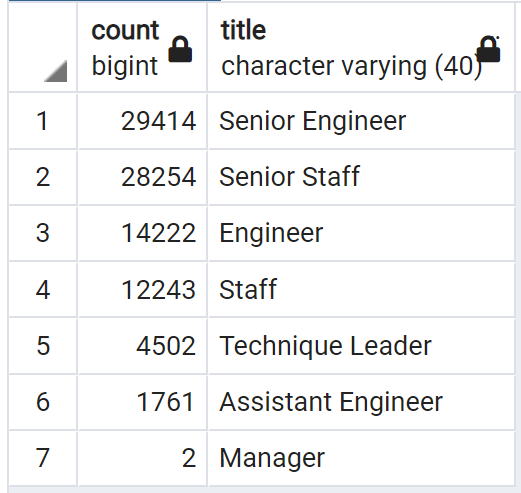
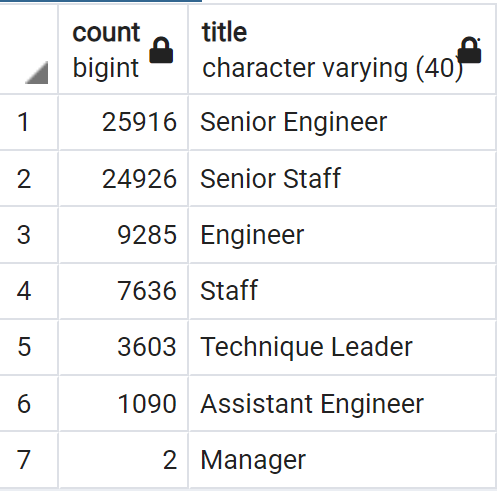
Challenge Updated

Changed region(s): [[0.0, 0.0, 1.0, 1.0], [0.9658, 0.2749, 0.996, 0.336], [0.0, 0.2749, 0.0302, 0.336]]

diff --git a/README.md b/README.md
@@ -8,7 +8,7 @@ Overall, the numbers show some glaring issues that will need to be addressed.  B
 
 ### Total Employees Retirement-Eligible
 
-* There are an extremely large number of employees set to retire from Pewlett Hackard in the near future, potentially up to 90,398 (see Fig. 1).  This could have serious repercussions for the company if not handled properly.  
+* There are an extremely large number of employees set to retire from Pewlett Hackard in the near future, potentially up to 72,458 (see Fig. 1).  This could have serious repercussions for the company if not handled properly.  
 
 Fig. 1
 ![Total Retirement-Eligible](https://github.com/cflavallee/Pewlett-Hackard-Analysis/blob/main/total%20retiring%20employees.PNG)
@@ -29,11 +29,11 @@ Fig. 2
 Fig. 3
 ![Mentorship Titles](https://github.com/cflavallee/Pewlett-Hackard-Analysis/blob/main/mentorship%20titles.PNG)
 
-Fig. 4 !
-[Mentorship Titles](https://github.com/cflavallee/Pewlett-Hackard-Analysis/blob/main/current%20department%20managers.PNG)
+Fig. 4 
+![Mentorship Titles](https://github.com/cflavallee/Pewlett-Hackard-Analysis/blob/main/current%20department%20managers.PNG)
 
 ## Summary
-The number of roles that will need to be filled is massive, potentially around 90,000 positions in the near future, including 2 manager roles.  The mentorship program may be able to alleviate some of the burden, but additional measures and hiring strategies will need to be deployed to ensure the continued success of the company.  
+The number of roles that will need to be filled is massive, potentially around 72,000 positions in the near future, including 2 manager roles.  The mentorship program may be able to alleviate some of the burden, but additional measures and hiring strategies will need to be deployed to ensure the continued success of the company.  
 
 Additionally, analyzing the salaries of those who retire ......
 
